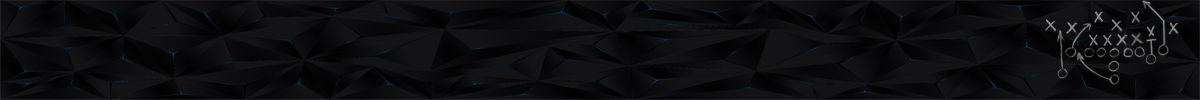
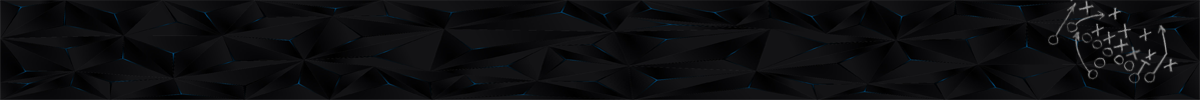
Update Captions

Changed region(s): [[0.8633, 0.03, 0.9867, 0.84]]

diff --git a/public/styles/KDL-Light.css b/public/styles/KDL-Light.css
@@ -5612,7 +5612,7 @@ Team Logos
   padding-right: 0.188rem;
   padding-right: .188rem;
   background: rgba(0, 0, 0, 0) url(https://knuckleheads.netlify.app/images/captions/Caption-Light.png); /*added*/
-  background-position: center; /*added*/
+  background-position: center left; /*added*/
 }
 /*below settings to decrease size of icons for standings on mobile devices*/
 @media only screen and (max-width: 35.5em) {
